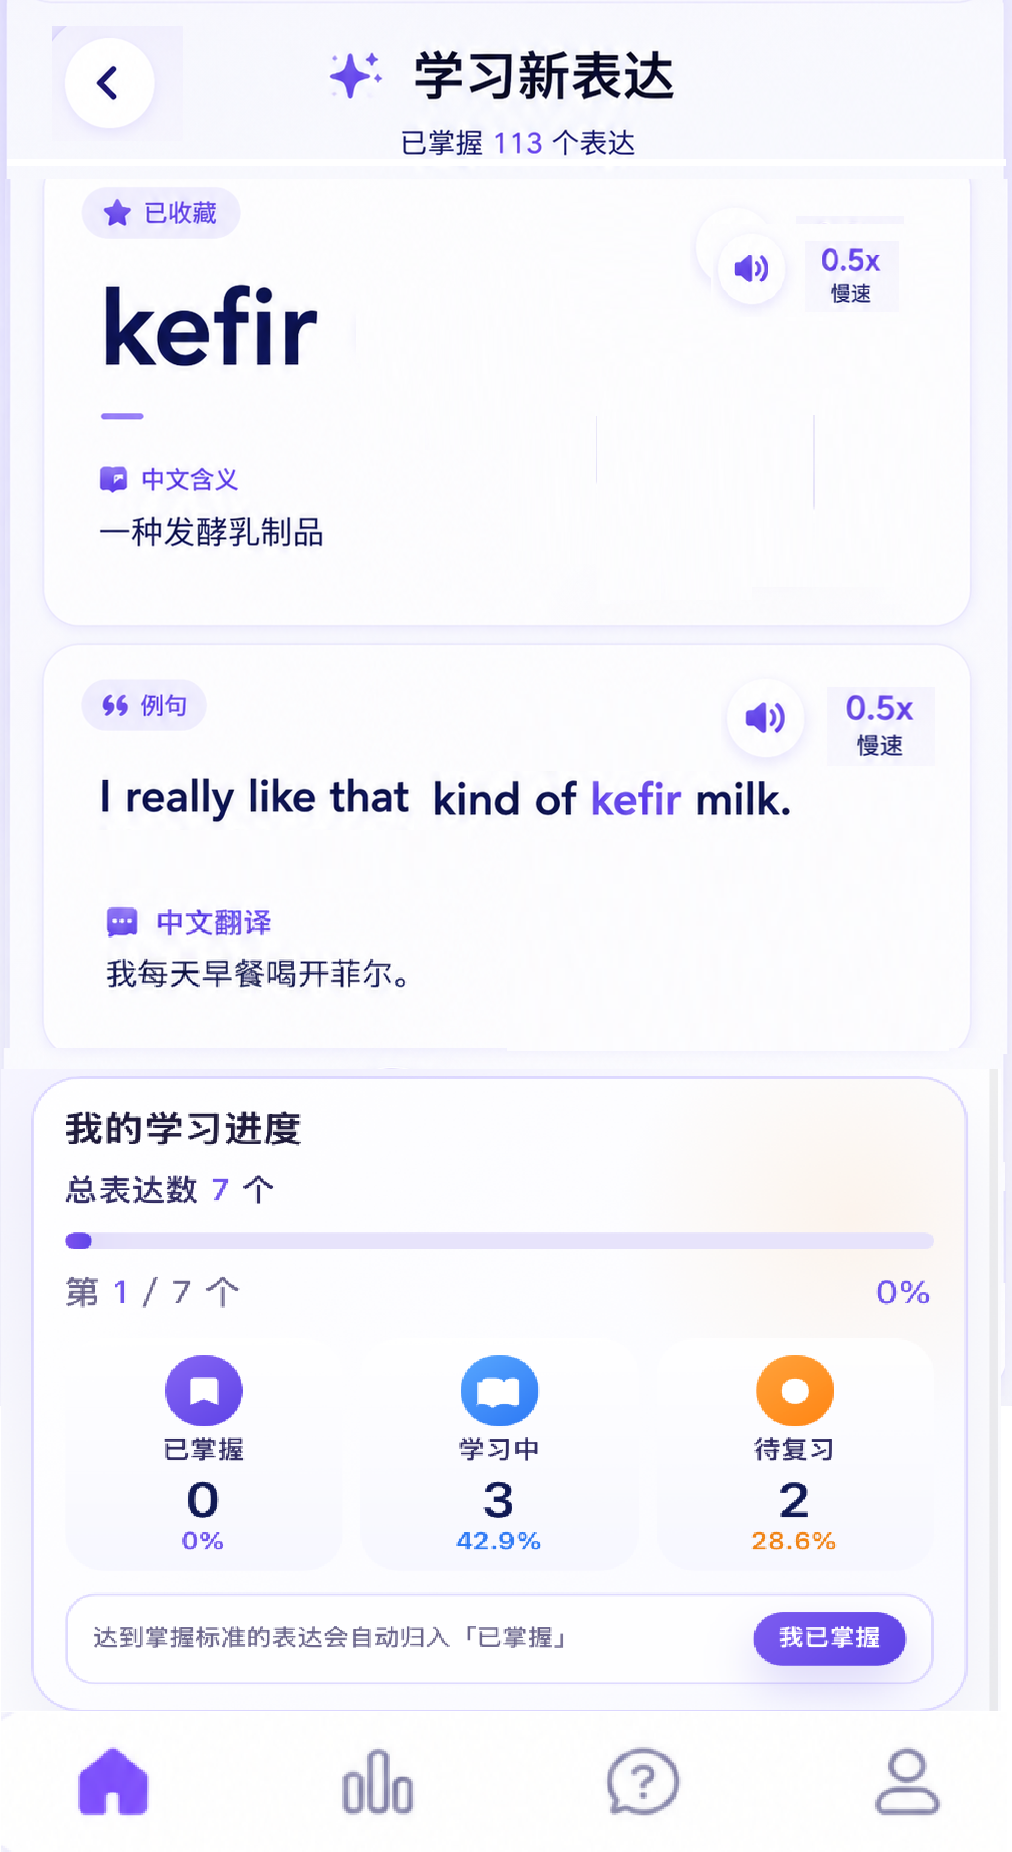
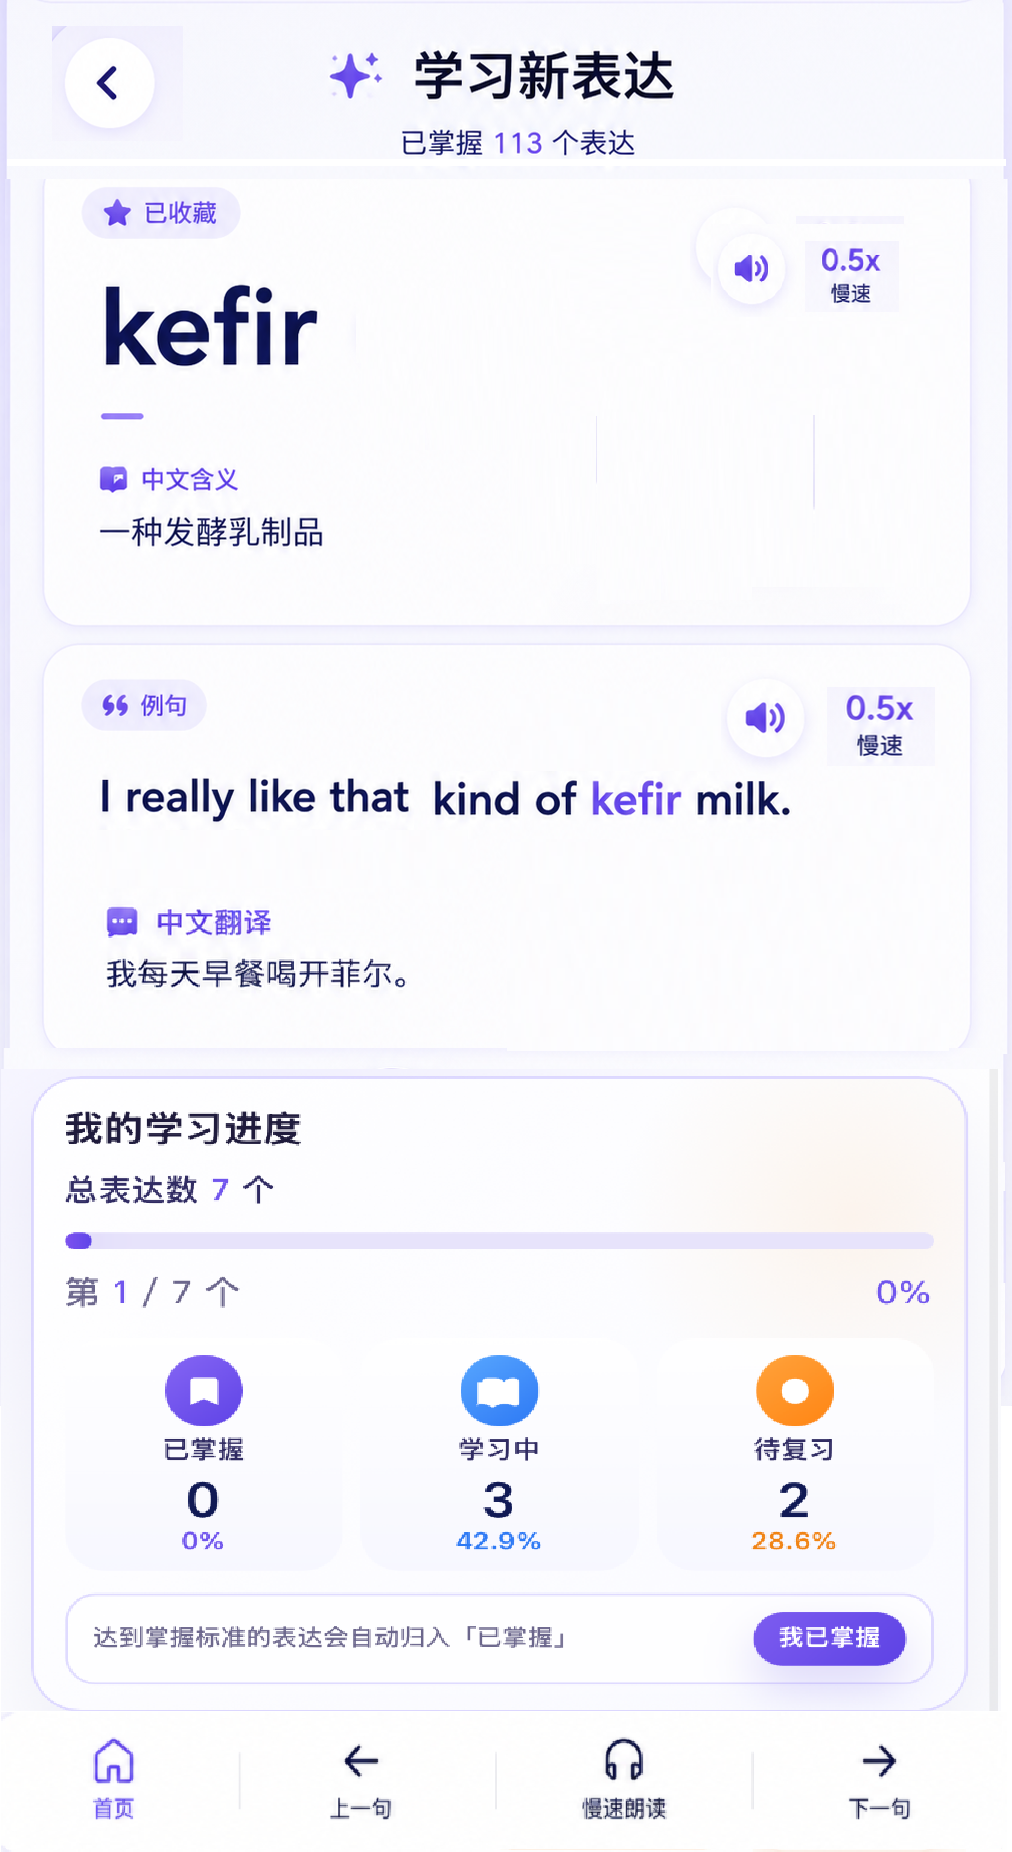
Fix classic study voice and mobile nav polish

diff --git a/components/ClassicScenesBottomNav.module.css b/components/ClassicScenesBottomNav.module.css
@@ -1,23 +1,23 @@
 .bottomNav {
   position: fixed;
-  left: 16px;
-  right: 16px;
-  bottom: max(12px, env(safe-area-inset-bottom, 0px));
+  left: 50%;
+  right: auto;
+  bottom: 0;
   z-index: 1200;
   box-sizing: border-box;
   display: grid;
-  width: auto;
-  min-height: 86px;
+  width: min(100%, 430px);
+  min-height: calc(86px + env(safe-area-inset-bottom, 0px));
   grid-template-columns: repeat(4, minmax(0, 1fr));
   align-items: center;
-  padding: 0 30px;
+  padding: 8px 30px calc(8px + env(safe-area-inset-bottom, 0px));
   border: 1px solid rgba(79, 108, 75, 0.12);
-  border-radius: 999px;
+  border-radius: 28px 28px 0 0;
   background: rgba(255, 255, 255, 0.94);
   box-shadow:
     0 18px 34px rgba(55, 72, 50, 0.12),
     inset 0 1px 0 rgba(255, 255, 255, 0.98);
-  transform: none;
+  transform: translateX(-50%);
   backdrop-filter: blur(14px);
 }
 
@@ -196,9 +196,9 @@
 
 @media (max-width: 760px) {
   .bottomNav {
-    width: min(calc(100vw - 24px), 408px);
-    min-height: 72px;
-    padding: 0 24px;
+    width: min(100%, 430px);
+    min-height: calc(72px + env(safe-area-inset-bottom, 0px));
+    padding: 8px 24px calc(8px + env(safe-area-inset-bottom, 0px));
   }
 
   .bottomNavButton {
@@ -223,22 +223,22 @@
 .bottomNav,
 :global(html[data-app-theme]) .bottomNav {
   position: fixed !important;
-  left: 16px !important;
-  right: 16px !important;
-  bottom: max(12px, env(safe-area-inset-bottom, 0px)) !important;
+  left: 50% !important;
+  right: auto !important;
+  bottom: 0 !important;
   z-index: 1200 !important;
-  width: auto !important;
-  transform: none !important;
+  width: min(100%, 430px) !important;
+  transform: translateX(-50%) !important;
 }
 
 @media (max-width: 760px) {
   .bottomNav,
   :global(html[data-app-theme]) .bottomNav {
-    left: 16px !important;
-    right: 16px !important;
-    bottom: max(12px, env(safe-area-inset-bottom, 0px)) !important;
-    width: auto !important;
-    min-height: 72px !important;
-    padding: 0 24px !important;
+    left: 50% !important;
+    right: auto !important;
+    bottom: 0 !important;
+    width: min(100%, 430px) !important;
+    min-height: calc(72px + env(safe-area-inset-bottom, 0px)) !important;
+    padding: 8px 24px calc(8px + env(safe-area-inset-bottom, 0px)) !important;
   }
 }

diff --git a/components/SentencePatternPages.module.css b/components/SentencePatternPages.module.css
@@ -1573,19 +1573,22 @@
 .patternBottomNav {
   position: fixed;
   left: 50%;
-  bottom: max(0.7rem, env(safe-area-inset-bottom, 0px));
+  bottom: 0;
   z-index: 120;
   box-sizing: border-box;
   display: grid;
-  width: min(calc(100% - 1.55rem), 398px);
-  min-height: clamp(3.95rem, 17vw, 4.7rem);
+  width: min(100%, 430px);
+  min-height: calc(clamp(3.95rem, 17vw, 4.7rem) + env(safe-area-inset-bottom, 0px));
   grid-template-columns: repeat(4, minmax(0, 1fr));
   align-items: center;
   gap: clamp(0.18rem, 1vw, 0.42rem);
   border: 1px solid rgba(220, 227, 247, 0.92);
-  border-radius: 999px;
+  border-radius: 1.65rem 1.65rem 0 0;
   background: rgba(255, 255, 255, 0.9);
-  padding: clamp(0.38rem, 1.7vw, 0.52rem) clamp(0.82rem, 4.2vw, 1.18rem);
+  padding:
+    clamp(0.38rem, 1.7vw, 0.52rem)
+    clamp(0.82rem, 4.2vw, 1.18rem)
+    calc(clamp(0.38rem, 1.7vw, 0.52rem) + env(safe-area-inset-bottom, 0px));
   box-shadow:
     0 1.05rem 2.4rem rgba(94, 112, 172, 0.15),
     inset 0 1px 0 rgba(255, 255, 255, 0.98);
@@ -2540,7 +2543,7 @@
 .phone:has(.overviewHeader) {
   min-height: 100dvh;
   padding: max(48px, calc(env(safe-area-inset-top, 0px) + 24px)) 21px
-    max(34px, calc(env(safe-area-inset-bottom, 0px) + 28px));
+    calc(112px + env(safe-area-inset-bottom, 0px));
 }
 
 .overviewHeader {
@@ -4944,7 +4947,7 @@
   left: 50% !important;
   right: auto !important;
   bottom: calc(
-    max(0.7rem, env(safe-area-inset-bottom, 0px)) + clamp(3.95rem, 17vw, 4.7rem) + 0.52rem
+    clamp(3.95rem, 17vw, 4.7rem) + env(safe-area-inset-bottom, 0px) + 0.52rem
   ) !important;
   z-index: 119 !important;
   width: min(calc(100vw - 1.55rem), 398px) !important;

diff --git a/app/study/[id]/page.tsx b/app/study/[id]/page.tsx
@@ -13,6 +13,7 @@ import PlayIcon from "@/components/PlayIcon";
 import SpeakFlowBrandMark from "@/components/SpeakFlowBrandMark";
 import { parseTrainingContent, type SentencePair } from "@/lib/training";
 import { playPreRecordedAudio, stopPreRecordedAudio } from "@/lib/preRecordedAudioClient";
+import { playSpeakFlowTts, stopSpeakFlowTts } from "@/lib/speakFlowTtsClient";
 import {
   getClassicSceneAudioUrl,
   type ClassicSceneAudioVariantKey,
@@ -120,6 +121,7 @@ const GUEST_CLASSIC_SENTENCE_LIMIT = 5;
 const CLASSIC_RECORDING_RESTART_DELAY_MS = 240;
 const CLASSIC_RECORDING_STOP_FALLBACK_MS = 900;
 const HAS_CLASSIC_SCENE_PRE_RECORDED_AUDIO = false;
+const CLASSIC_SCENE_TTS_VOICE_ID = "alloy";
 function isClassicSceneLessonId(lessonId: string) {
   return (
     lessonId.startsWith("bank_") ||
@@ -949,6 +951,7 @@ export default function StudyPage() {
     setIsAutoPlaying(false);
     isSequencePlayingRef.current = false;
     setIsSequencePlaying(false);
+    stopSpeakFlowTts();
     stopPreRecordedAudio();
     window.speechSynthesis.cancel();
     clearSequenceTimer();
@@ -1244,6 +1247,18 @@ export default function StudyPage() {
   ) {
     if (!text) {
       if (onEnd) onEnd();
+      return;
+    }
+
+    if (isClassicSceneLessonId(lessonId) && !isMyCourseLesson) {
+      stopPreRecordedAudio();
+      void playSpeakFlowTts({
+        fallbackVoice: getSelectedVoice() || pickPreferredEnglishVoice(voices),
+        onEnd,
+        rate: normalizeSpeechRate(rate),
+        text,
+        voiceId: CLASSIC_SCENE_TTS_VOICE_ID,
+      });
       return;
     }
 
@@ -1633,6 +1648,7 @@ export default function StudyPage() {
 
     return () => {
       window.speechSynthesis.onvoiceschanged = null;
+      stopSpeakFlowTts();
       window.speechSynthesis.cancel();
       stopPreRecordedAudio();
       clearAutoTimer();

diff --git a/components/ClassicScenesMenuPage.module.css b/components/ClassicScenesMenuPage.module.css
@@ -1326,17 +1326,17 @@
 .bottomNav {
   position: fixed;
   left: 50%;
-  bottom: max(16px, calc(env(safe-area-inset-bottom, 0px) + 12px));
+  bottom: 0;
   z-index: 40;
   box-sizing: border-box;
   display: grid;
   width: min(calc(100vw - 52px), 920px);
-  min-height: 86px;
+  min-height: calc(86px + env(safe-area-inset-bottom, 0px));
   grid-template-columns: repeat(4, minmax(0, 1fr));
   align-items: center;
-  padding: 0 30px;
+  padding: 8px 30px calc(8px + env(safe-area-inset-bottom, 0px));
   border: 1px solid rgba(79, 108, 75, 0.12);
-  border-radius: 999px;
+  border-radius: 28px 28px 0 0;
   background: rgba(255, 255, 255, 0.94);
   box-shadow:
     0 18px 34px rgba(55, 72, 50, 0.12),
@@ -1642,7 +1642,7 @@
   position: fixed !important;
   left: 50% !important;
   right: auto !important;
-  bottom: max(16px, calc(env(safe-area-inset-bottom, 0px) + 12px)) !important;
+  bottom: 0 !important;
   z-index: 1200 !important;
   transform: translateX(-50%) !important;
 }
@@ -1650,8 +1650,8 @@
 @media (max-width: 760px) {
   .bottomNav,
   :global(html[data-app-theme]) .bottomNav {
-    width: min(calc(100vw - 24px), 408px) !important;
-    min-height: 72px !important;
-    padding: 0 24px !important;
+    width: min(100%, 430px) !important;
+    min-height: calc(72px + env(safe-area-inset-bottom, 0px)) !important;
+    padding: 8px 24px calc(8px + env(safe-area-inset-bottom, 0px)) !important;
   }
 }

diff --git a/app/vocabulary/VocabularyPage.module.css b/app/vocabulary/VocabularyPage.module.css
@@ -8874,7 +8874,18 @@
 }
 
 :global(.sf-expression-library-app-bottom-nav) {
-  bottom: max(0.42rem, env(safe-area-inset-bottom, 0px)) !important;
+  bottom: 0 !important;
+  width: min(100%, 430px) !important;
+  max-width: 430px !important;
+  min-height: calc(4.35rem + env(safe-area-inset-bottom, 0px)) !important;
+  padding:
+    0.42rem
+    0.88rem
+    calc(0.42rem + env(safe-area-inset-bottom, 0px)) !important;
+  border-right: 0 !important;
+  border-bottom: 0 !important;
+  border-left: 0 !important;
+  border-radius: 1.42rem 1.42rem 0 0 !important;
 }
 
 @media (max-width: 390px) {

diff --git a/lib/speakFlowTtsClient.ts b/lib/speakFlowTtsClient.ts
@@ -7,6 +7,7 @@ import {
 
 type PlaySpeakFlowTtsOptions = {
   fallbackVoice?: SpeechSynthesisVoice | null;
+  onEnd?: () => void;
   rate?: number;
   text: string;
   voiceId?: SpeakFlowVoiceId;
@@ -103,6 +104,7 @@ export function preloadSpeakFlowTts({ text, voiceId }: PlaySpeakFlowTtsOptions) 
 
 export function speakWithBrowserFallback({
   fallbackVoice = null,
+  onEnd,
   rate = 1,
   text,
   voiceId = SPEAKFLOW_DEFAULT_VOICE_ID,
@@ -127,6 +129,9 @@ export function speakWithBrowserFallback({
       window.speechSynthesis.getVoices(),
       voiceId
     );
+  utterance.onend = () => {
+    onEnd?.();
+  };
 
   window.speechSynthesis.cancel();
   window.speechSynthesis.speak(utterance);
@@ -134,6 +139,7 @@ export function speakWithBrowserFallback({
 
 export async function playSpeakFlowTts({
   fallbackVoice = null,
+  onEnd,
   rate = 1,
   text,
   voiceId,
@@ -153,6 +159,7 @@ export async function playSpeakFlowTts({
     fallbackStarted = true;
     speakWithBrowserFallback({
       fallbackVoice,
+      onEnd,
       rate: normalizedRate,
       text: normalizedText,
       voiceId: selectedVoiceId,
@@ -177,6 +184,7 @@ export async function playSpeakFlowTts({
           currentAudioUrl = "";
         }
         currentAudio = null;
+        onEnd?.();
       },
       { once: true }
     );
@@ -187,6 +195,7 @@ export async function playSpeakFlowTts({
     if (!fallbackStarted && playbackRequestId === requestId) {
       speakWithBrowserFallback({
         fallbackVoice,
+        onEnd,
         rate: normalizedRate,
         text: normalizedText,
         voiceId: selectedVoiceId,